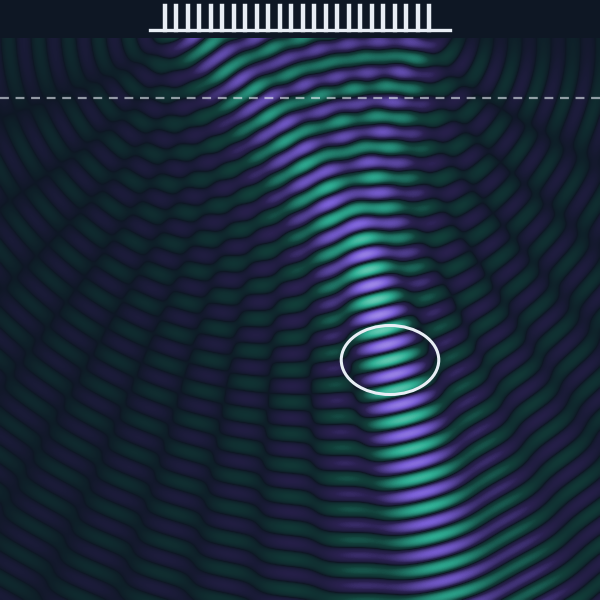
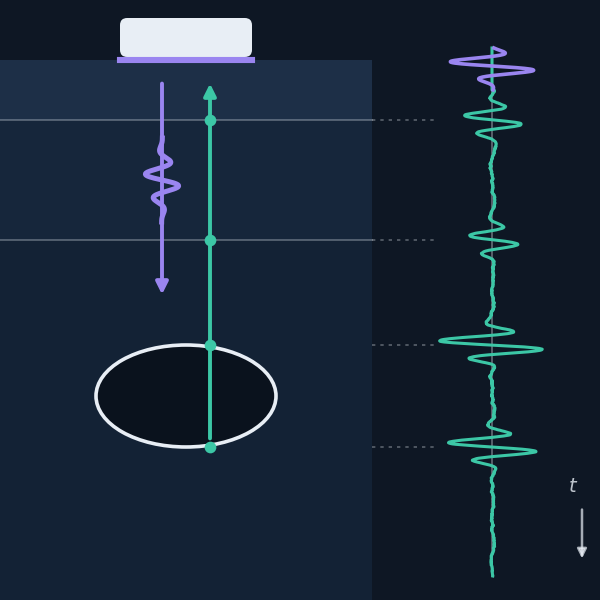
Research: pulse-echo thumbnail for wearable sensing; gold skill tags to match the CV

diff --git a/_pages/research.html b/_pages/research.html
@@ -58,7 +58,8 @@ html[data-theme="dark"] .rs {
 .rs-theme h2 { font-size: 1.45rem; margin: 0.2rem 0 0.5rem; border: 0; padding: 0; }
 .rs-theme p { font-size: 0.95rem; margin: 0 0 0.8rem; }
 .rs-chips { display: flex; flex-wrap: wrap; gap: 6px; margin-bottom: 1rem; }
-.rs-chip { font-size: 0.72rem; font-weight: 600; color: var(--global-text-color-light); border: 1px solid var(--global-border-color); border-radius: 999px; padding: 1px 10px; }
+.rs-chip { font-size: 0.72rem; font-weight: 600; color: #8b6914; background: rgba(202,163,45,0.12); border: 1px solid rgba(202,163,45,0.35); border-radius: 14px; padding: 2px 10px; }
+html[data-theme="dark"] .rs-chip { color: #e2bd5a; background: rgba(202,163,45,0.14); border-color: rgba(202,163,45,0.4); }
 
 .rs-works { border-left: 2px solid var(--accent); padding-left: 0.9rem; }
 .rs-work { display: grid; grid-template-columns: 2.6em 6.8em 1fr; gap: 0 0.5rem; font-size: 0.85rem; line-height: 1.4; padding: 0.22rem 0; }
@@ -163,7 +164,7 @@ html[data-theme="dark"] .rs {
 </section>
 
 <section class="rs-theme flip" id="wearable-ultrasound">
-  <div class="rs-art"><img src="{{ '/images/research/wearable.png' | relative_url }}" alt="Simulated beam from a linear array steered onto a vessel below the skin" loading="lazy" width="600" height="600">
+  <div class="rs-art"><img src="{{ '/images/research/wearable.png' | relative_url }}" alt="Pulse-echo diagram: a transducer on the skin sends a pulse into layered tissue and a vessel, and the returning echoes appear on the A-line" loading="lazy" width="600" height="600">
   </div>
   <div>
     <div class="rs-eyebrow">Industry research · Meta Reality Labs</div>
